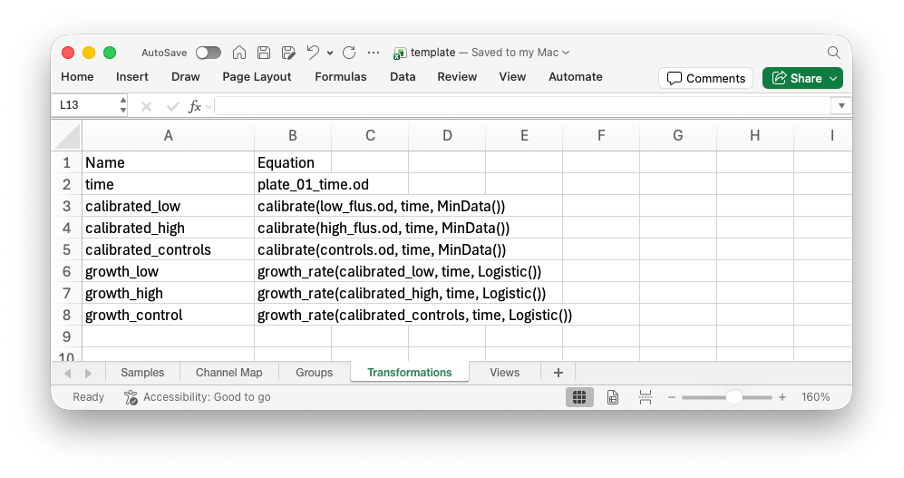
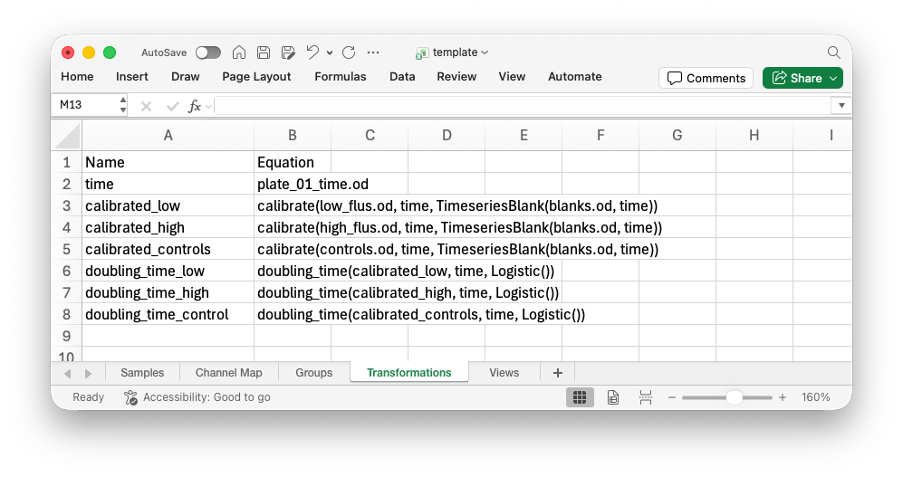
updated excel interface docs

diff --git a/docs/src/excel.md b/docs/src/excel.md
@@ -5,7 +5,7 @@ The Excel interface is accessed through `esm template ...`. It provides an Excel
 The Excel template features five sheets to be filled out with relevant information:
 
 1. Samples
-2. ID
+2. Channel map
 3. Groups
 4. Transformations
 5. Views
@@ -14,31 +14,33 @@ On this page, we document what is required to be filled out and give examples of
 
 ## Samples
 
-The first sheet is called "Samples" and requires information about where you data is stored and what information should be read from it.
+The first sheet is called **Samples** and requires information about where you data is stored and what information should be read from it.
 
 Each row specifies a new file that should be imported into the final `.esm` file.
 
-The first few rows control the naming scheme for the samples. By default this will look something like "plate_01_a1.600".
+The **Type** defines whether the data is `plate reader` or `flow` to determine how that file should be imported. These are the only two options.
 
-The first column lets you put in labels for plates. Here, we have labelled them "1", "2", "3", and "4". The final names for these plates will be "plate\_01", "plate\_02", "plate\_03", and "plate\_04".
+The **Data Location** gives the full filepath to the data. It should include any filename extensions (like **.xlsx** or **.csv**)
 
-The second column controls the well name. For example, if you have flow cytometry data from different wells, stored in different `.fcs` files, you can label the well that each `.fcs` file corresponds to.
+**Channels** identifies the specific channels that you would like to save in the ESM file. If left blank, then all will be saved. This should be a comma-separated list is multiple channels are to be included. Spaces may be optionally included after the commas. The channel names should be formatted as they are printed by `esm summarise`.
 
-The sample names will be stored as plate\_0\$PLATE NUMBER\$\_\$well name\$. That is unless a name is provided in the third column.
+The **Plate brand** identifies the format the data will be in and how it should be parsed. Available options are: `spectramax`, `biotek`, and `tecan`. Leave it blank for flow cytometry data.
 
-The type defines whether the data is "plate reader" or "flow" and how that file should be imported.
+The next few columns control the naming scheme for the samples. By default this will look something like `plate_01_a1.OD_600`.
 
-The data location gives the full filepath to the data.
+The **Plate** column lets you put in labels for plates. Here, we have labelled the sample `1`. The final name for this plates will be `plate_01`.
 
-Channels identifies the specific channels that you would like to save in the ESM file. If left blank, then all will be saved.
+For data where a single file is recorded for each well, such as flow cytometry data, a **Well** can be specified. For example, if you have flow cytometry data from different wells, stored in different `.fcs` files, you can label the well that each `.fcs` file corresponds to, giving you access to the files as `plate_01_a1`, `plate_01_a2`, etc.
 
-Finally, we have the plate reader brand. This identifies the format the data will be in. Available options are: "spectramax", "biotek", and "tecan". Leave it blank for other data types.
+The sample names will be stored as `plate_0$Plate$_$Well$`. That is unless a name is provided in the third column.
+
+The **Name** column can override a plate name. In this case, anything entered into the **Name** column will replace the entire `plate_01`-style name. This only happens for flow cytometry data.
 
 ![alt text](assets/samples.png)
 
-## ID
+## Channel map
 
-Here you can rename any channels. On the left, provide the channel name, as specified on the previous sheet. On the right, provide the new name for the channel. In this example, rather than using "plate\_01\_a5.600", we would then use "plate\_01\_a5.od".
+Here you can rename any channels. On the left, provide the channel name, as specified on the previous sheet. On the right, provide the new name for the channel. In this example, rather than using `plate_01_a5.OD_600`, we would then use `plate_01_a5.od`.
 
 ![alt text](assets/ids.png)
 
@@ -46,7 +48,7 @@ Here you can rename any channels. On the left, provide the channel name, as spec
 
 In this sheet, you can group samples together. For example, you may want to group all of your blank well together to make them easier to refer to.
 
-There are a few formats for doing this. The simplest is to just write out all the samples in a comma separated list (i.e. "plate\_01\_a1, plate\_01\_a2, plate\_01\_a3").
+There are a few formats for doing this. The simplest is to just write out all the samples in a comma separated list (i.e. `plate_01_a1, plate_01_a2, plate_01_a3`).
 
 To make this a bit shorter, you may choose to use the compressed format. In this format, anything specified in `[]` is expanded.
 
@@ -55,17 +57,7 @@ To make this a bit shorter, you may choose to use the compressed format. In this
 * `[a,d,e]` gets expanded to `a`, `d`, and `e`.
 * Numerals are treated likewise.
 
-All these formats can be mixed together in any combination, so "plate\_0[1,2]\_[a:c]1, plate\_04\_a2" is treated the same as "plate\_01\_a1, plate\_01\_b1, plate\_01\_c1, plate\_02\_a1, plate\_02\_b1, plate\_02\_c1, plate\_04\_a2".
-
-```@docs; canonical=false
-ESM.expand_group
-```
-
-In the example:
-
-* all wells on the left of a 96 well plate (A through H, column 1) are grouped as "blank",
-* all wells on the right (A through H, column 12) are groups as "control",
-* the remaining wells (A through H, columns 2 through 11) are split into pairs of rows (A and B, C and D, E and F, G and H) into the groups "ee01", "ee02", "ee03", "ee04".
+All these formats can be mixed together in any combination, so `plate_0[1,2]_[a:c]1, plate_04_a2` is treated the same as `plate_01_a1, plate_01_b1, plate_01_c1, plate_02_a1, plate_02_b1, plate_02_c1, plate_04_a2`.
 
 ![alt text](assets/groups.png)
 
@@ -75,7 +67,7 @@ On the transformations sheet, you can define the post-processing you want to app
 
 In the left column, you can name your transformation. In the right column, you can provide the code for the transformation you want to run. This can be arbitrary Julia code, but most commonly is just calling one of the ESM methods for [Plate Reader](@ref plate_reader) and [Flow Cytometry](@ref flow_cytometry) data.
 
-In the example below, we calibrate our groups based on the blank group, then calculate growth rates on each of the calibrated transformations. Finally, the data is collected together (the "processed" variable appends the different DataFrames together) and this is normalised by the mean of the controls.
+In the example below, we define a short name for the times from plate 1. Then we calibrate our groups based on the blank group, then calculate doubling times on each of the calibrated transformations.
 
 ![alt text](assets/transformations.png)
 
@@ -83,6 +75,6 @@ In the example below, we calibrate our groups based on the blank group, then cal
 
 Finally, the views describe a subset of transformations, groups and samples that you actually want to look at, outside of ESM. This is typically used for your final post-processed data, but can also be useful for debugging (viewing inputs and outputs from a transformation to make sure it is working as intended).
 
-In the example below, we have a single view named "growth_rate", which uses the "normalized" transformation we defined previously. Instead of using a transformation, we could have also used a group name, or a sample name.
+In the example below, we have three views named `dt_low`, `dt_high`, and `dt_control`, which uses the doubling times calculated by their corresponding transformations. Instead of using a transformation, we could have also used a group name, or a sample name.
 
 ![alt text](assets/views.png)
